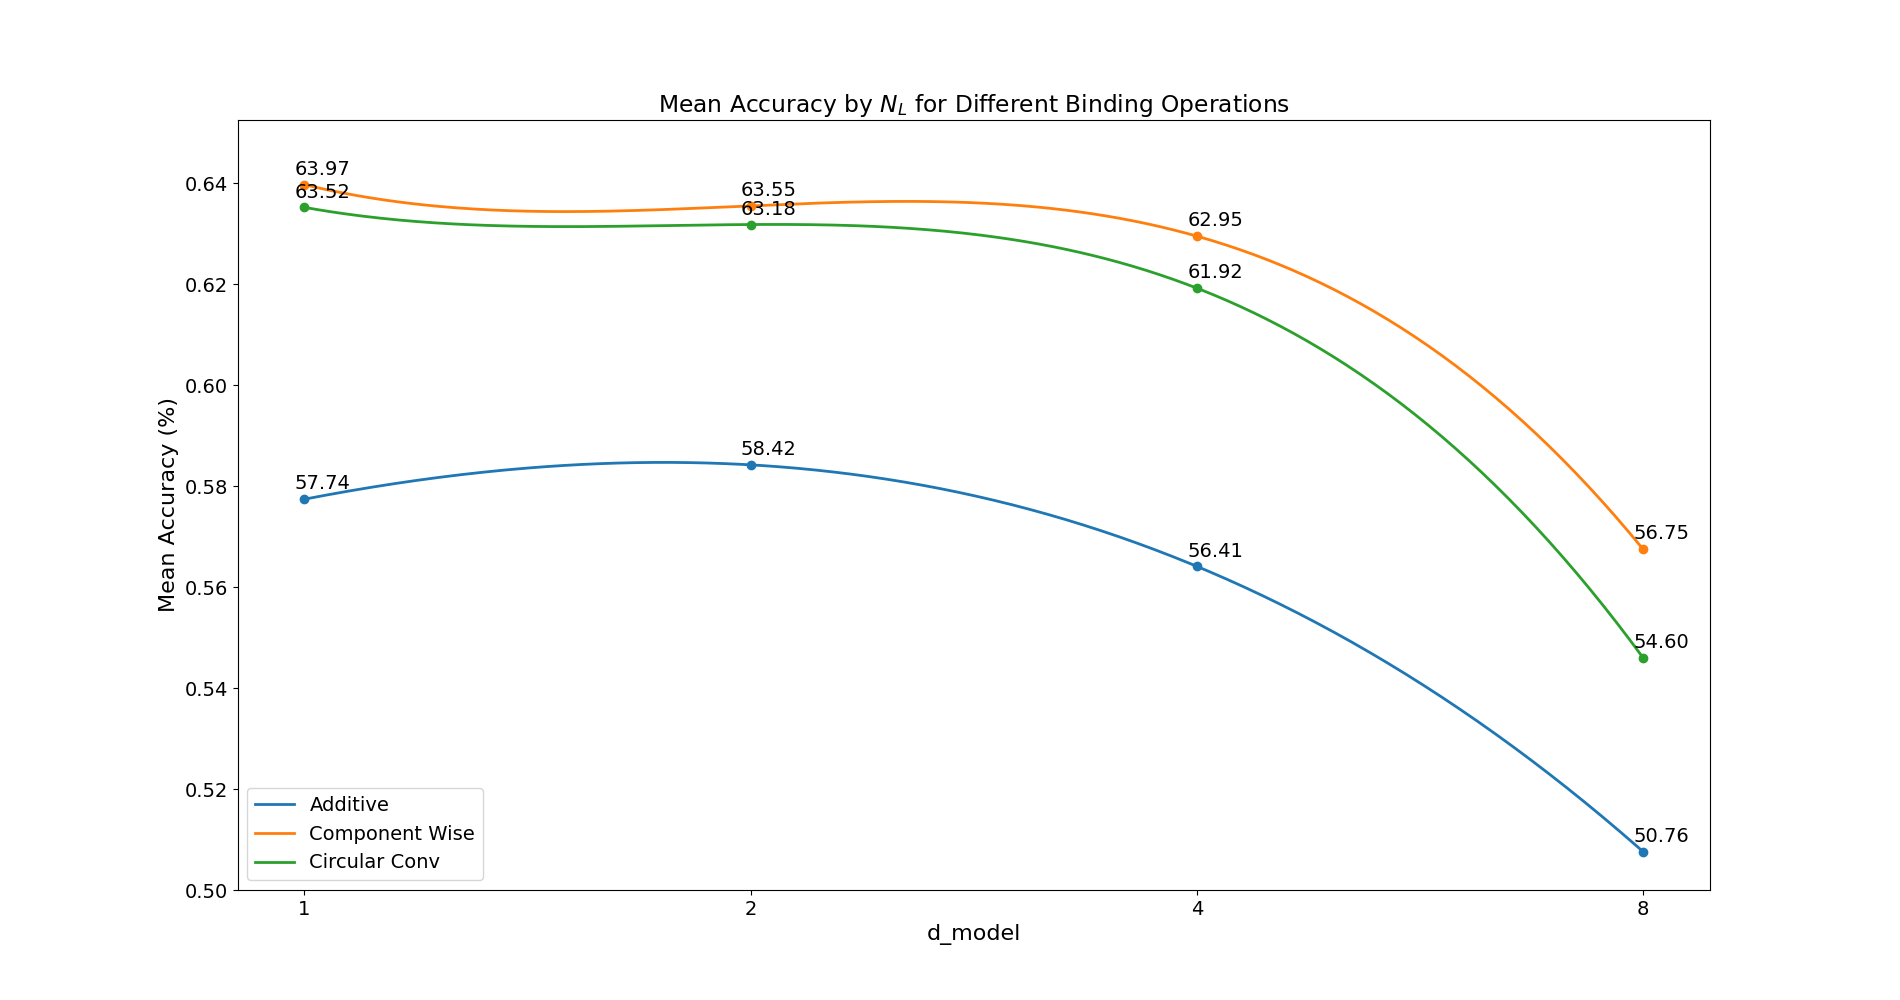
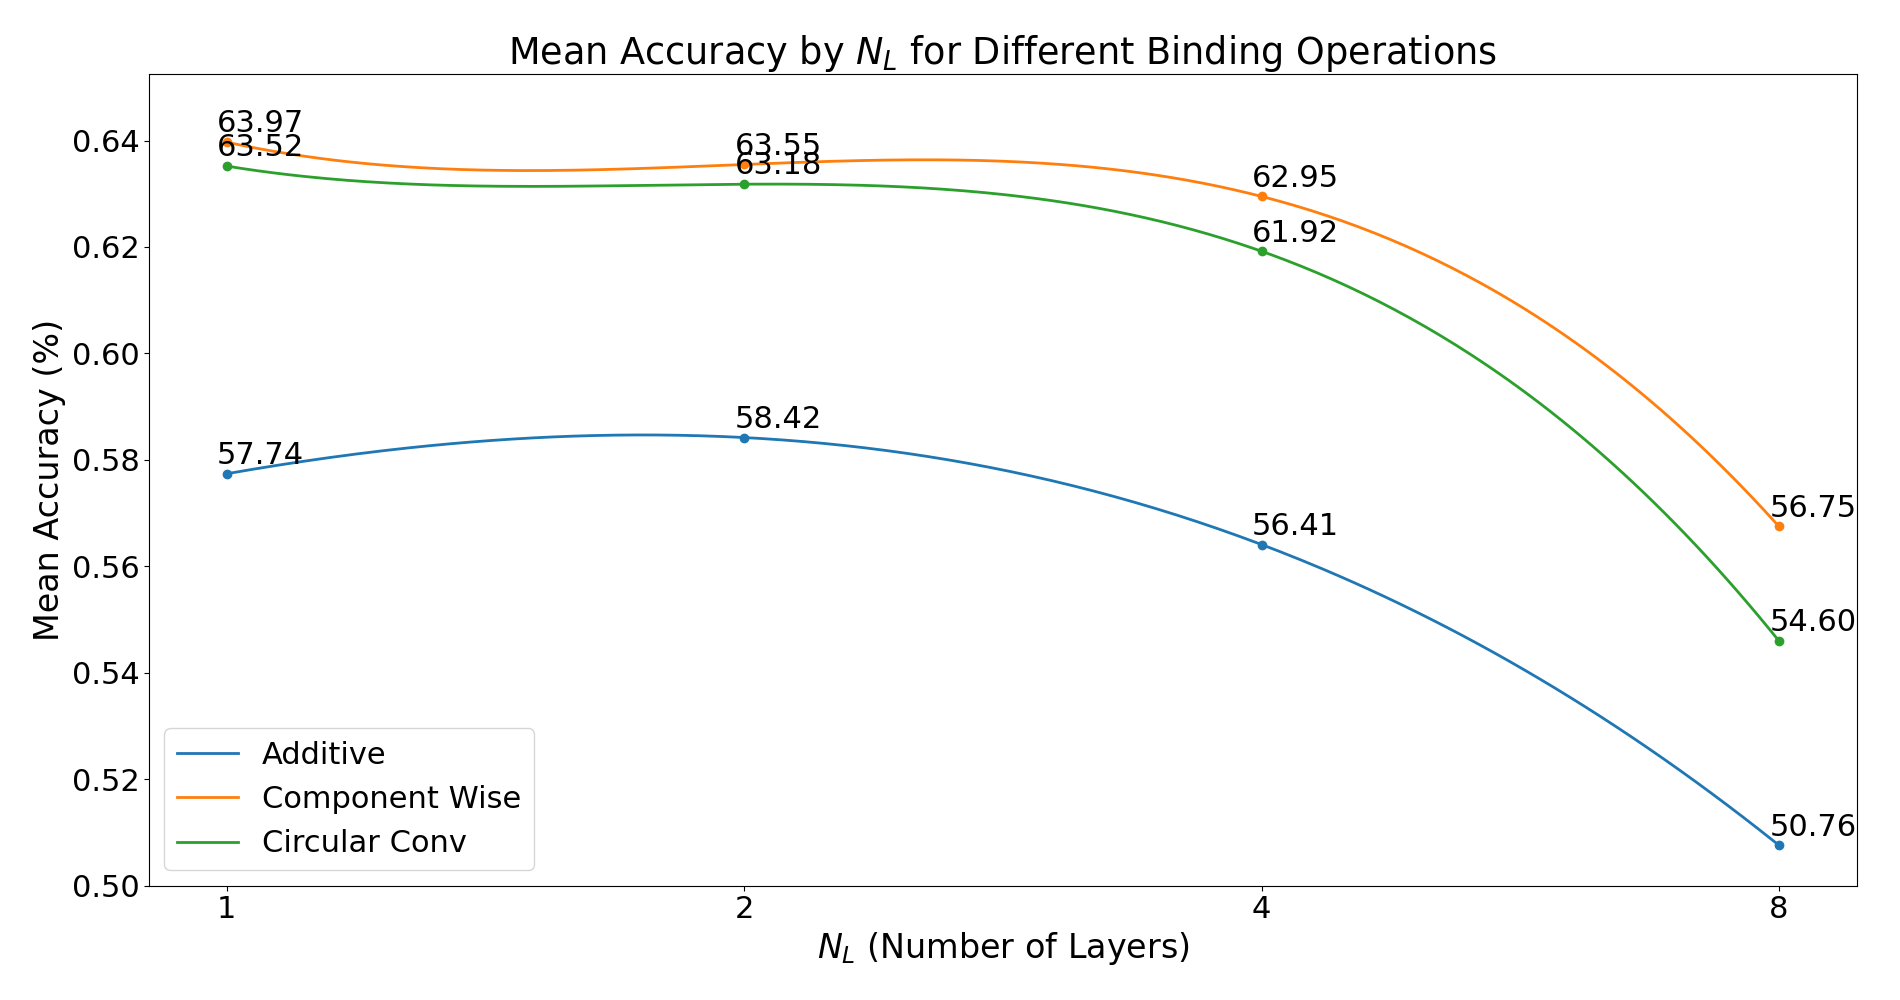
adjusted plots

diff --git a/src/experiments/visualization/cd_diagram.py b/src/experiments/visualization/cd_diagram.py
@@ -1,0 +1,108 @@
+# -*- coding: utf-8 -*-
+"""Critical Difference (CD) Diagram Visualization Module."""
+
+# Standard imports
+import pathlib
+
+# Third party imports
+import autorank
+import pandas
+from matplotlib import pyplot
+
+# First party imports
+from utils import Config
+from utils.plot import set_plot_style
+
+
+def get_average_acc(value):
+    """Convert a string representing accuracy (with or without confidence interval) to a float."""
+    # Ensure the value is a string before trying to split it
+    if not isinstance(value, str):
+        return value
+
+    try:
+        if " ± " in value:
+            # Handle 'accuracy ± confidence' format
+            parts = value.split(" ± ")
+            return float(parts[0])
+        else:
+            # Handle single number format (like in the last row)
+            return float(value)
+    except (ValueError, IndexError):
+        # If conversion to float fails or split doesn't work, return original
+        return value
+
+
+def plot_cd_diagram(metrics: pandas.DataFrame, output_path: pathlib.Path | None = None) -> None:
+    """Plot a Critical Difference (CD) diagram from the given metrics DataFrame.
+
+    Args:
+        metrics (pandas.DataFrame): DataFrame containing experiment metrics.
+        output_path (pathlib.Path): Path to save the CD diagram.
+    """
+    # Format the metrics DataFrame
+    metrics.drop(columns=["train_samples", "sequence_length", "num_classes"], inplace=True)
+    metrics.set_index("dataset", inplace=True)
+    metrics.columns = metrics.columns.str.replace("_", " ").str.title()
+
+    # Get only the accuracy values
+    metrics = metrics.map(get_average_acc)
+
+    # Autorank is used to run the Friedman test and the Nemenyi post-hoc test.
+    # 'alpha=0.05' is the standard significance level.
+    # 'order="descending"' because higher accuracy is better.
+    result = autorank.autorank(
+        data=metrics, alpha=0.05, verbose=True, order="descending", force_mode="nonparametric", approach="frequentist"
+    )
+
+    print("Statistical Analysis Report:")
+    print(result)
+    print("-" * 30)
+
+    # Create and Save the CD Diagram
+    set_plot_style()
+    pyplot.rcParams["grid.linewidth"] = 3
+    fig, ax = pyplot.subplots(nrows=1, ncols=1)
+
+    # The plot_stats function generates the CD diagram.
+    autorank.plot_stats(result, ax=ax)
+
+    # Save the plot to a file if output_path is provided
+    if output_path is not None:
+        pyplot.savefig(plot_path, bbox_inches="tight")
+
+    pyplot.show()
+
+
+if __name__ == "__main__":
+    # Set parameters for the plot
+    relative_file_path = "1_binding_version_1/binding_v1_CD.png"
+
+    # Set pandas options for better display of DataFrames
+    pandas.set_option("display.max_columns", None)
+
+    # Set pandas to not truncate DataFrame output
+    pandas.set_option("display.width", 0)
+
+    # Path to experiment's raw metrics CSV file
+    experiment_metrics_path = (
+        pathlib.Path(__file__).parents[3] / "docs/experiment_results/1_binding_version_1/summary_dataset_results.csv"
+    )
+
+    # Define output directory
+    output_dir = experiment_metrics_path.parent
+    output_dir.mkdir(exist_ok=True)
+
+    # Validate paths
+    if not experiment_metrics_path.exists():
+        raise FileNotFoundError(f"Experiment metrics file not found at: {experiment_metrics_path}")
+
+    # Load the experiment metrics CSV file into a DataFrame
+    metrics = pandas.read_csv(experiment_metrics_path, header=0)
+
+    # Define the output path for the CD diagram
+    plot_path = Config.plot_dir / "experiment" / relative_file_path
+    plot_path.parent.mkdir(parents=True, exist_ok=True)
+
+    # Plot the CD diagram
+    plot_cd_diagram(metrics=metrics, output_path=plot_path)

diff --git a/src/utils/plot.py b/src/utils/plot.py
@@ -26,15 +26,10 @@ def set_plot_style() -> None:
     pyplot.rcParams["figure.figsize"] = (19, 10)
 
     # Increase text size
-    pyplot.rcParams.update({"font.size": 14})
-
-    # Set the grid style
-    # pyplot.rcParams["grid.linestyle"] = "--"
-    # pyplot.rcParams["grid.linewidth"] = 0.5
-    # pyplot.rcParams["grid.alpha"] = 0.7
+    pyplot.rcParams.update({"font.size": 22})
 
     # Set the legend font size
-    pyplot.rcParams["legend.fontsize"] = 14
+    pyplot.rcParams["legend.fontsize"] = 22
 
     # Set the axes label size
-    pyplot.rcParams["axes.labelsize"] = 16
+    pyplot.rcParams["axes.labelsize"] = 24

diff --git a/src/experiments/visualization/d_model_experiment.py b/src/experiments/visualization/d_model_experiment.py
@@ -67,12 +67,14 @@ def plot_metrics_by_binding(metrics: pandas.DataFrame, plot_path: pathlib.Path) 
     ax.set_xticks(x_ticks)
     ax.set_xticklabels(d_models, rotation=45)
     ax.set_ylim([lower_limit, 0.6525])
-    ax.set_xlabel("d_model")
+    ax.set_xlabel("$d_{model}$ (Embedding Dimension)")
     ax.set_ylabel("Mean Accuracy (%)")
     ax.set_title("Mean Accuracy by $d_{model}$ for Different Binding Operations")
 
     # Add a legend
     ax.legend(loc="lower left")
+
+    pyplot.tight_layout()
 
     # Save the plot to the specified directory
     pyplot.savefig(plot_path)

diff --git a/src/experiments/visualization/n_l_experiment.py b/src/experiments/visualization/n_l_experiment.py
@@ -58,9 +58,11 @@ def plot_metrics_by_binding(metrics: pandas.DataFrame, plot_path: pathlib.Path) 
     ax.set_xticks(x_ticks)
     ax.set_xticklabels(n_ls)
     ax.set_ylim([lower_limit, 0.6525])
-    ax.set_xlabel("d_model")
+    ax.set_xlabel("$N_L$ (Number of Layers)")
     ax.set_ylabel("Mean Accuracy (%)")
     ax.set_title("Mean Accuracy by $N_L$ for Different Binding Operations")
+
+    pyplot.tight_layout()
 
     # Add a legend
     ax.legend(loc="lower left")
